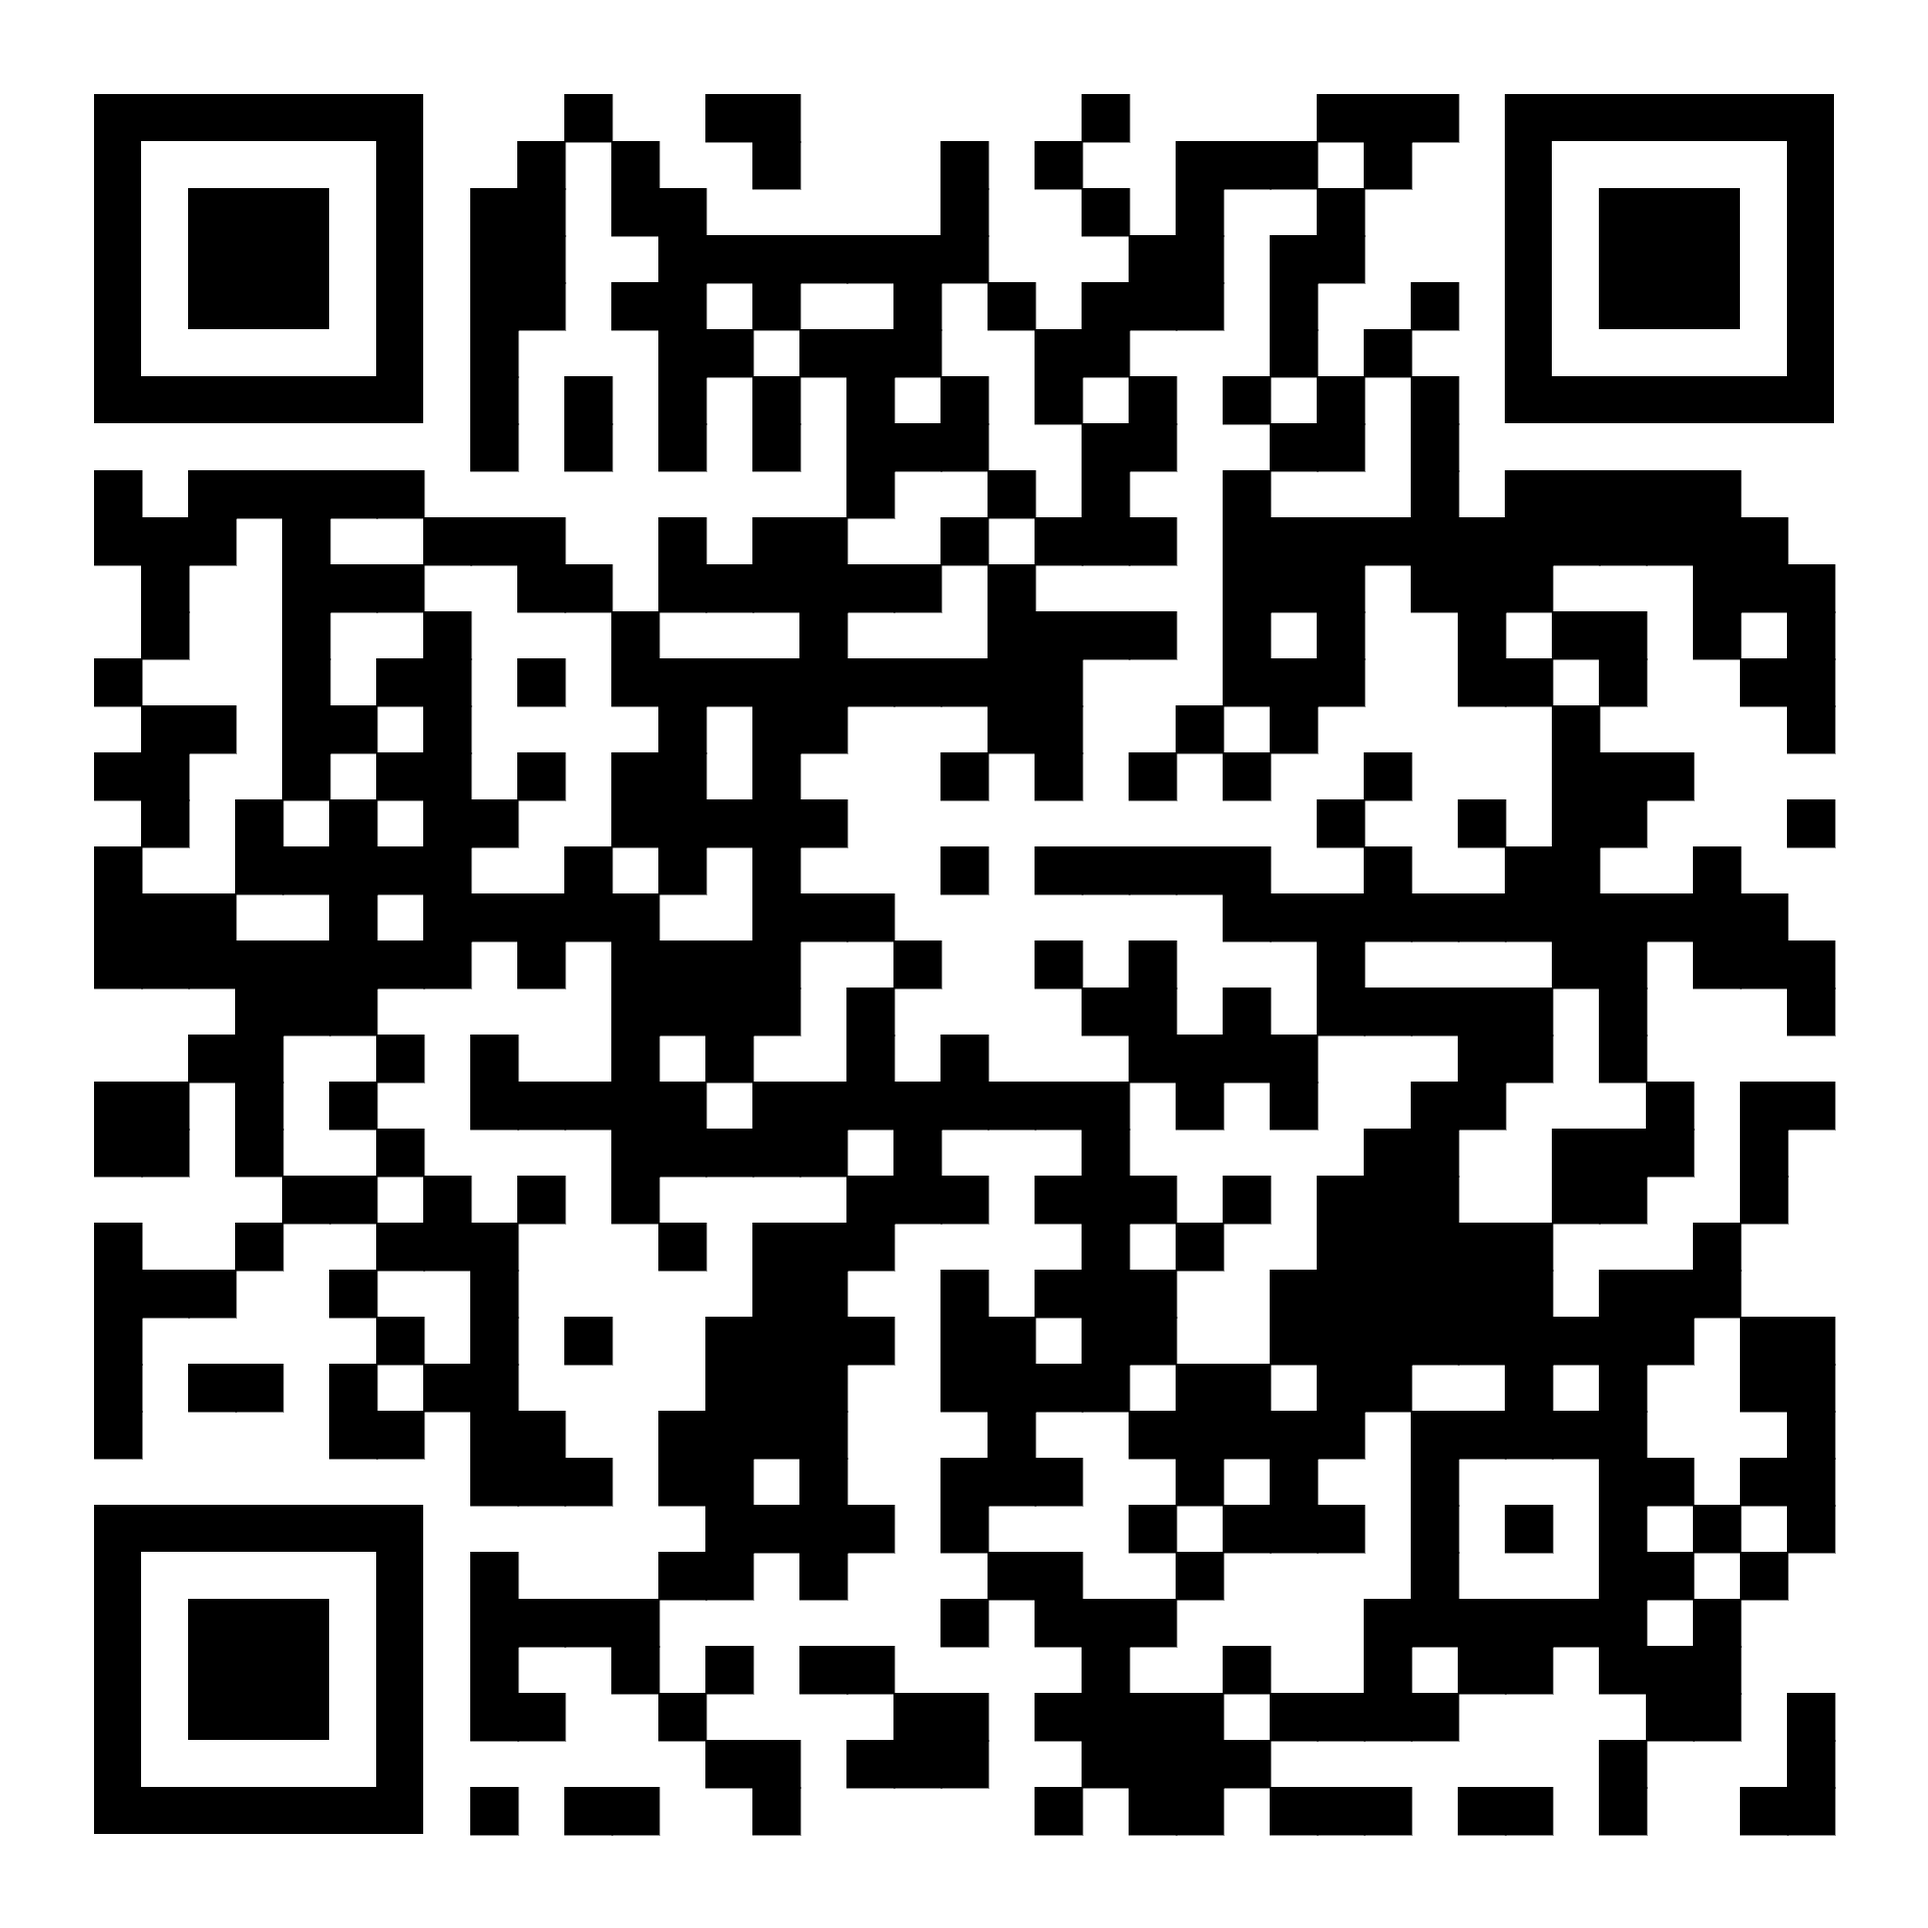
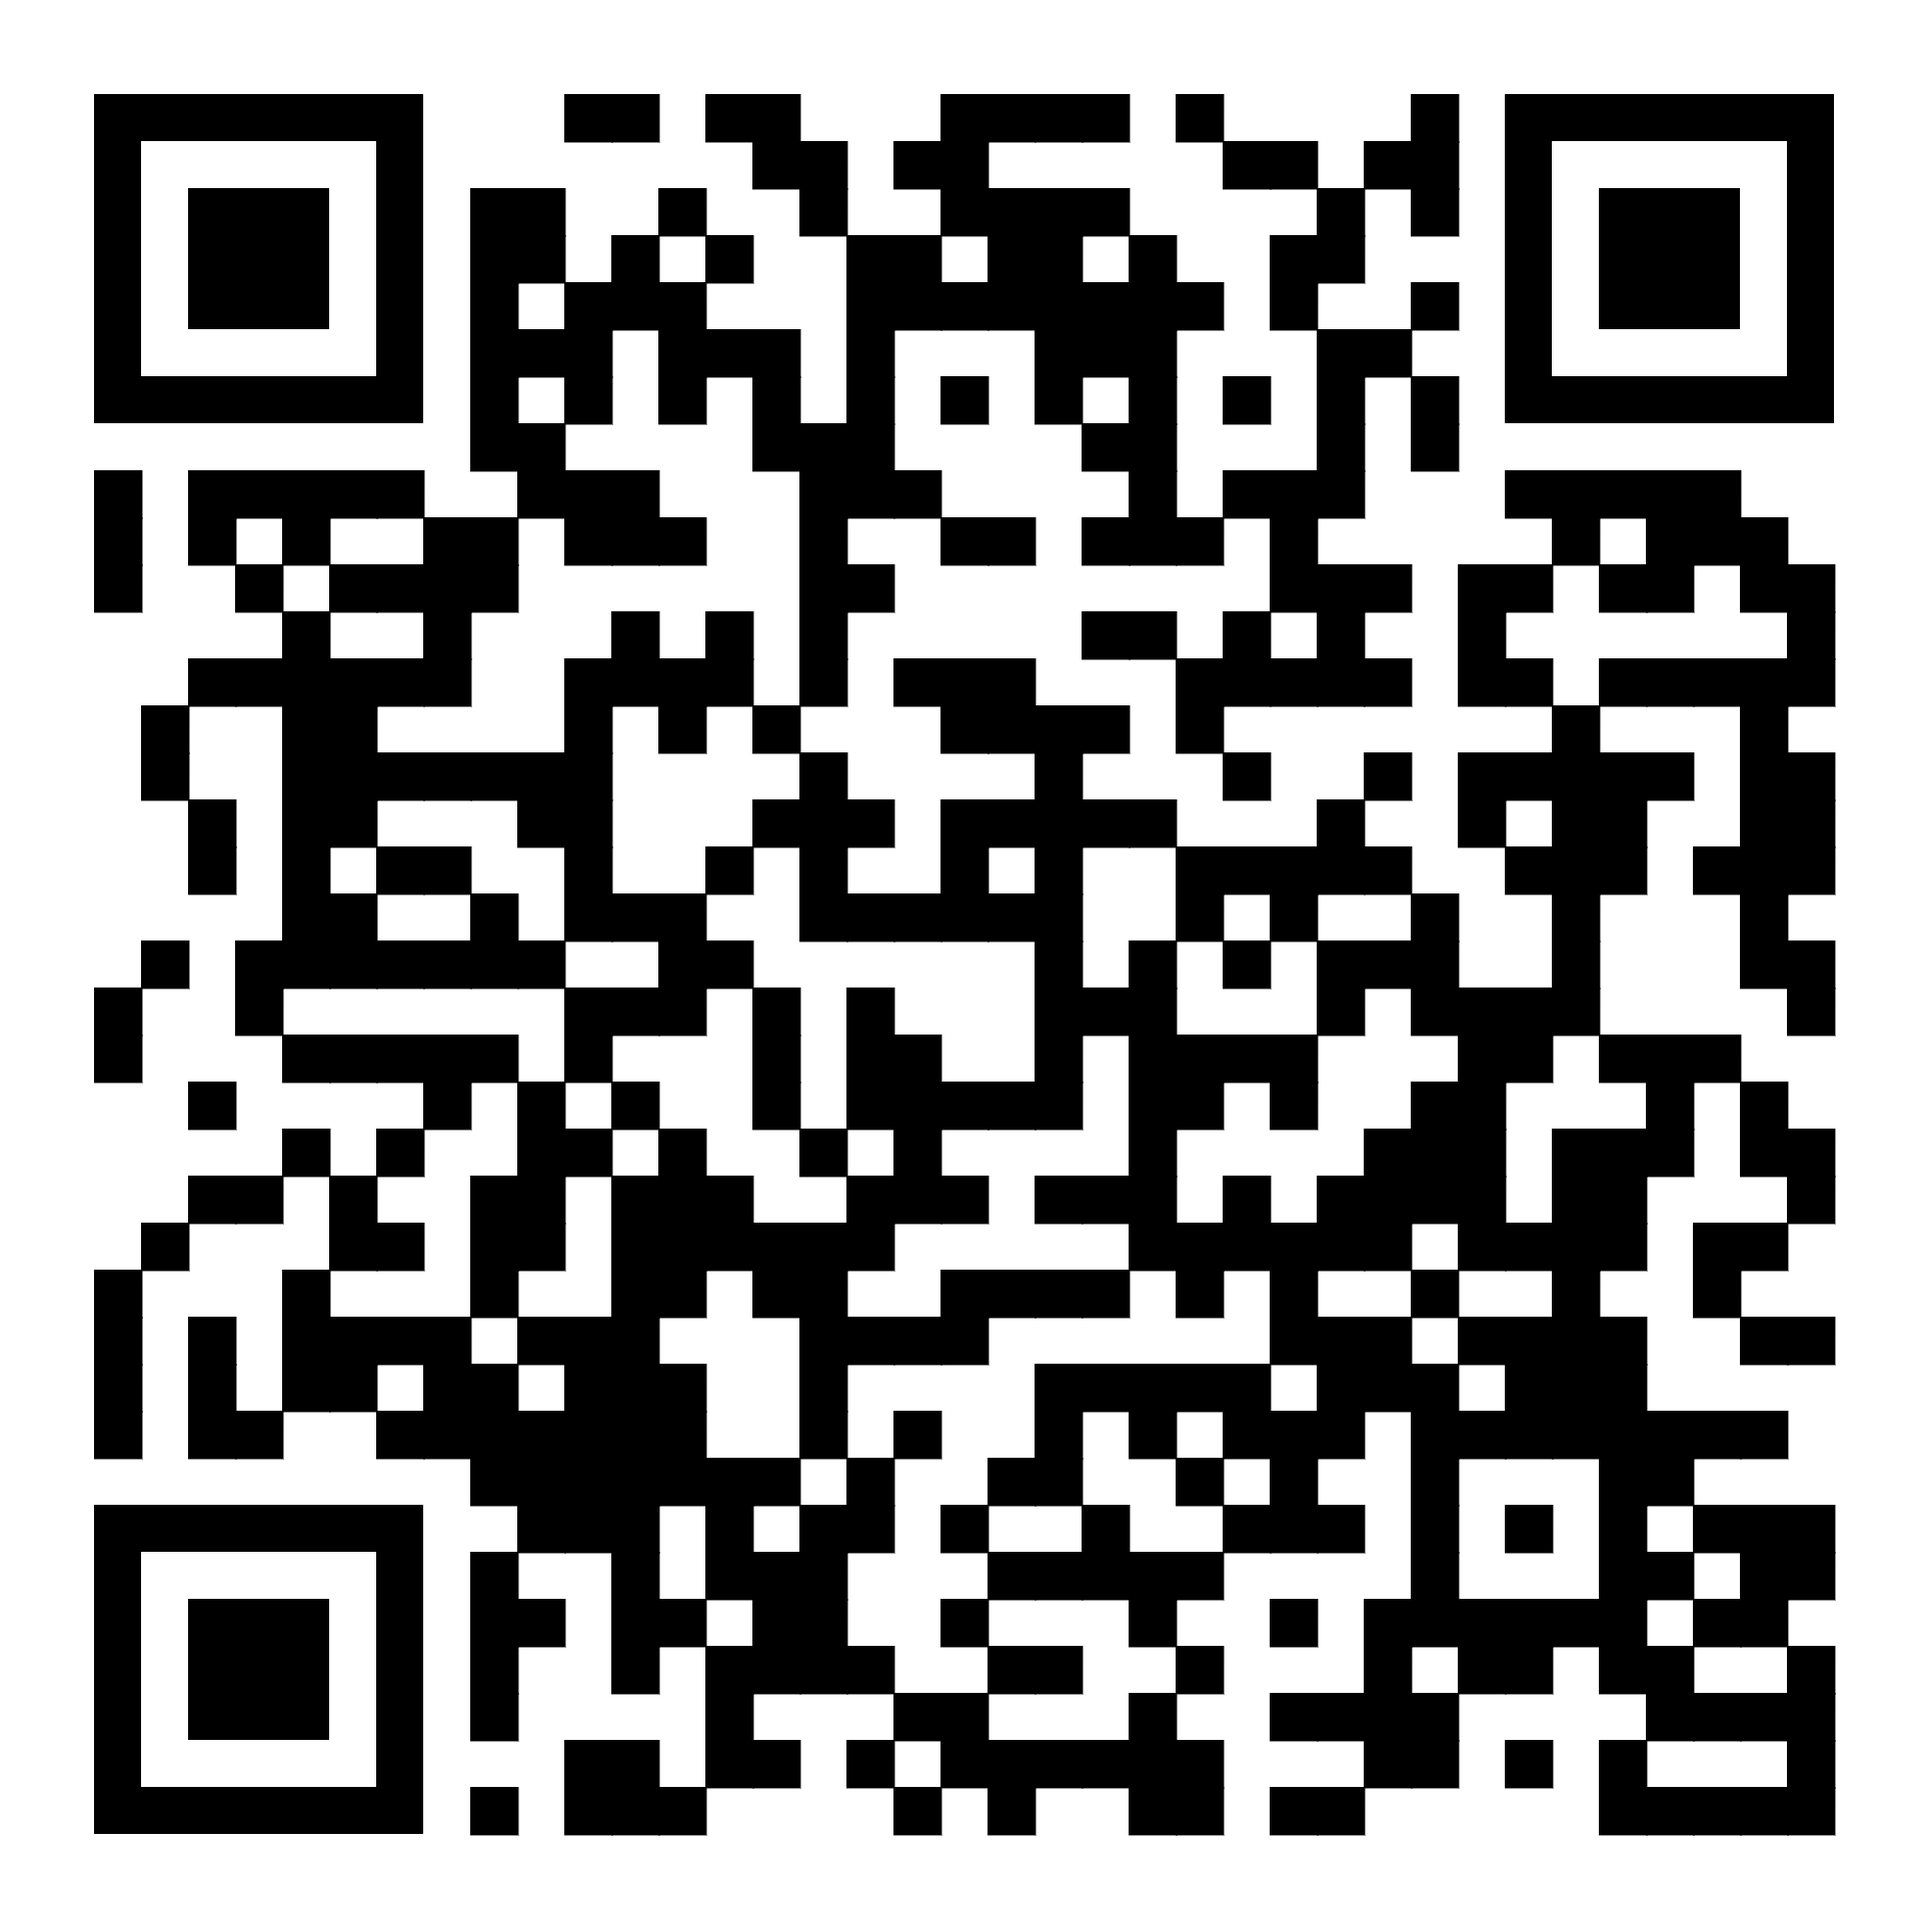
Update for Software Craft Luxembourg

diff --git a/slides/index.md b/slides/index.md
@@ -25,7 +25,7 @@ style: |
 Pourquoi vous devriez vous y intéresser en 2023
 
 <small>[Fabian Vilers](https://github.com/fvilers)
-Dev Day</small>
+Software Craft Luxembourg</small>
 
 ![width:150px](./img/link_to_slides.png)
 
@@ -181,7 +181,7 @@ h1 {
 
 # Resources pour continuer
 
-- [Code source](https://github.com/fvilers/devday-2023/tree/main/money_parser) annoté de la mini démo
+- [Code source](https://github.com/fvilers/software-craft-luxembourg/tree/main/money_parser) annoté de la mini démo
 - [The Rust Programming Language](https://doc.rust-lang.org/book/) book
 - Rust Users [Forum](https://users.rust-lang.org/)
 - [Reddit](https://old.reddit.com/r/rust/)

diff --git a/README.md b/README.md
@@ -1,4 +1,4 @@
-# devday-2023
+# software-craft-luxembourg
 
 Pourquoi vous devriez vous y intéresser en 2023
 
